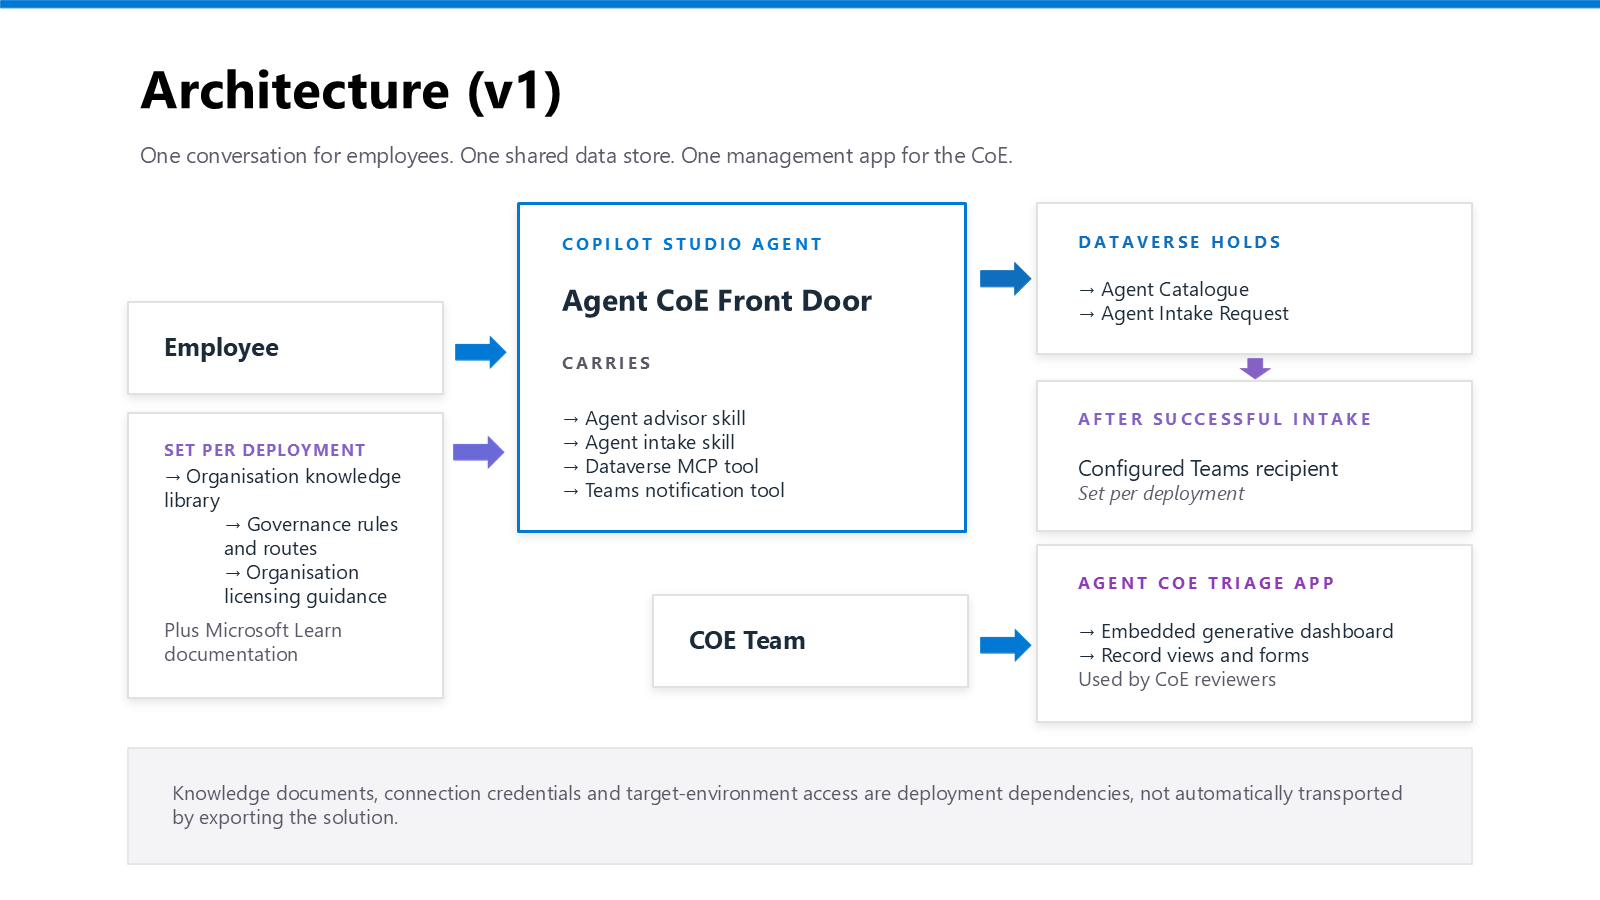
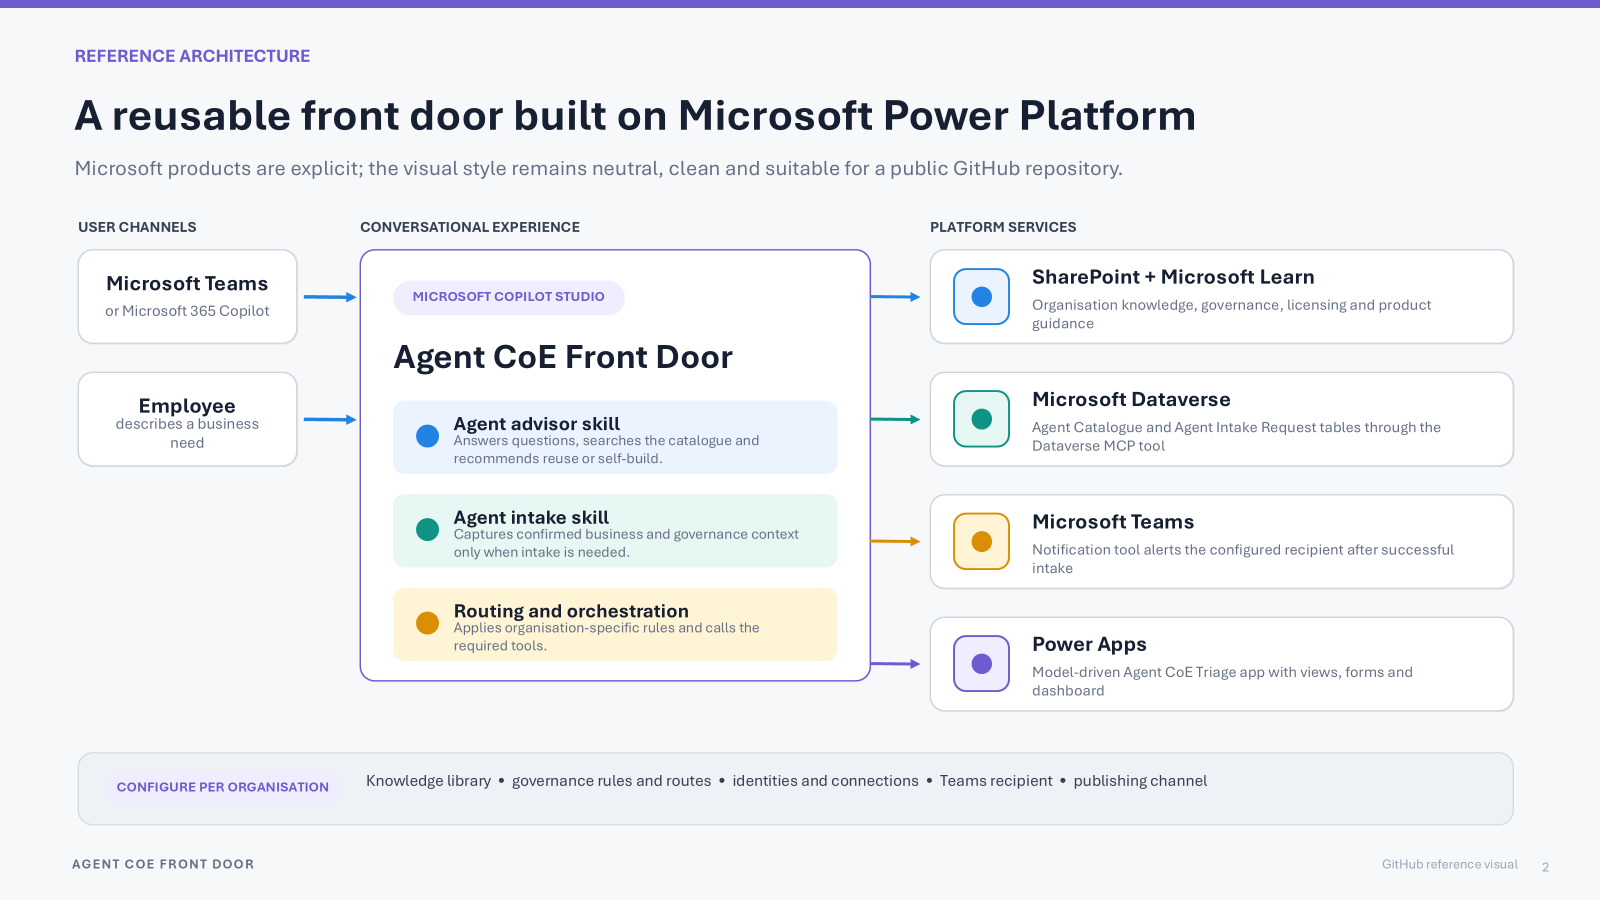
Refresh Front Door visuals and business scenarios

diff --git a/docs/USER-STORIES.md b/docs/USER-STORIES.md
@@ -2,6 +2,18 @@
 
 These user stories describe the reusable business scenarios that adopters should validate after importing and configuring the solution. Replace example policy, routing, and catalogue details with approved organizational content before using them for acceptance.
 
+The additional scenarios below are design and acceptance ideas, not claims that every behavior is implemented or has passed release validation.
+
+## Employee describing a need without choosing a tool
+
+As an employee, I want to explain the outcome I need in everyday language, so that I can receive a practical next step without knowing whether I need an agent, a template, or CoE help.
+
+Acceptance criteria to validate:
+
+- The response reflects the business outcome before recommending a route.
+- The agent asks only for information needed to make the next recommendation.
+- If the configured guidance cannot determine a route, the agent says so and points to an approved human contact.
+
 ## Employee looking for an existing agent
 
 As an employee with a business need, I want the front door to check the agent catalogue before asking me to submit a new request, so that I can reuse an existing solution when one is available.
@@ -12,6 +24,16 @@ Acceptance criteria:
 - A relevant existing agent is recommended when one is available.
 - A new intake is not created unless the user asks for further help or no suitable option exists.
 - Any catalogue gap is stated clearly rather than invented.
+
+## Employee comparing an existing option with a new request
+
+As an employee, I want to understand why an existing agent might meet my need before requesting another build, so that I can make an informed choice.
+
+Acceptance criteria to validate:
+
+- The agent explains the relevant match and any known limitations using catalogue information.
+- It does not imply that an unverified catalogue item is approved for my use.
+- If the existing option is unsuitable, it offers the configured next route without inventing a new record.
 
 ## Employee asking a policy or licensing question
 
@@ -34,6 +56,16 @@ Acceptance criteria:
 - The response explains when to come back for CoE review or support.
 - The self-build path is logged or made visible if the adopting organization requires demand visibility.
 
+## Maker finding an approved starting point
+
+As a maker, I want guidance toward an approved template or build approach and the checks needed before sharing, so that I can turn a suitable idea into a responsible self-build.
+
+Acceptance criteria to validate:
+
+- The recommendation uses configured, approved guidance rather than assuming a template exists.
+- Ownership, access, data handling, and review requirements are described where configured.
+- Scenarios outside the self-build rules are routed to review instead of being treated as approved.
+
 ## Business sponsor requesting CoE support
 
 As a business sponsor, I want to describe the business problem, users, timeline, and expected outcomes, so that the CoE receives enough structured information to triage the request.
@@ -44,6 +76,16 @@ Acceptance criteria:
 - The agent summarizes the request before writing.
 - The user must explicitly confirm before an intake record is created.
 - The created record contains the intended values and can be read back.
+
+## Sponsor correcting intake details
+
+As a sponsor, I want to amend or cancel the proposed request after reviewing its summary, so that inaccurate details are not submitted.
+
+Acceptance criteria to validate:
+
+- Corrections are reflected in a new summary before any write.
+- Cancelling the flow creates no intake record.
+- A record is created only after a clear confirmation of the final summary.
 
 ## CoE reviewer managing demand
 
@@ -56,6 +98,16 @@ Acceptance criteria:
 - Unauthorized users cannot access restricted records.
 - Status and ownership changes follow the adopting organization's process.
 
+## CoE reviewer distinguishing decision from delivery
+
+As a reviewer, I want to track the review outcome separately from delivery progress, so that a governance decision is not mistaken for a completed build.
+
+Acceptance criteria to validate:
+
+- The configured triage process defines what each status means.
+- Review and delivery changes are visible to authorized reviewers.
+- Reporting does not treat an approved idea as a delivered solution.
+
 ## Operations owner preparing production use
 
 As an operations owner, I want ownership, support, monitoring, knowledge review, access review, and connection renewal responsibilities assigned before launch, so that the front door has a sustainable operating model.
@@ -66,4 +118,3 @@ Acceptance criteria:
 - Capacity and support routes are defined.
 - Knowledge and access review dates are recorded.
 - Known limitations and rollback expectations are accepted before release.
-

diff --git a/docs/SOLUTION-OVERVIEW.md b/docs/SOLUTION-OVERVIEW.md
@@ -8,61 +8,17 @@ The design principle is **answer first, intake second**. The agent should avoid 
 
 ## Golden path
 
-```mermaid
-flowchart LR
-    A[Employee describes a need] --> B[Check catalogue and approved guidance]
-    B --> C{Can the need be resolved now?}
-    C -->|Existing agent or answer found| D[Reuse or answer directly]
-    C -->|Maker can self-serve| E[Provide self-build guidance and log visibility]
-    C -->|CoE support or review needed| F[Collect structured intake details]
-    F --> G[Show confirmation summary]
-    G --> H{User confirms?}
-    H -->|No| I[Revise or stop without writing]
-    H -->|Yes| J[Create intake request]
-    J --> K[Review and manage in triage app]
-```
+Describe the business need, discover approved guidance and existing solutions, decide on reuse, self-build, or CoE support, capture a confirmed request only when needed, and manage demand in the triage app. The user can revise or stop before confirmation without creating a record.
 
 ## Operating model
 
-```mermaid
-flowchart TB
-    L1[Self-service layer<br/>Find existing agents<br/>Answer licensing and governance questions<br/>Explain approved build paths]
-    L2[Guided routing layer<br/>Classify the need<br/>Apply routing rules<br/>Recommend reuse, self-build, or CoE support]
-    L3[Structured intake layer<br/>Capture business problem, sponsor, users, and timeline<br/>Confirm before writing<br/>Create request for triage]
-
-    L1 -->|Need not resolved| L2
-    L2 -->|Review or support required| L3
-```
-
-Each layer should run only when the previous layer cannot resolve the request. This keeps the front door lightweight for employees while still giving the CoE visibility into demand that needs review or delivery support.
+The agent starts with self-service answers and catalogue discovery, then applies organization-specific routing. Structured intake follows only when review, visibility, or delivery support is needed. This keeps the front door lightweight while giving the CoE visibility into demand.
 
 ## Package boundary
 
 ![Agent CoE Front Door architecture](../assets/architecture-visual.png)
 
-```mermaid
-flowchart LR
-    subgraph Package[Included in this release]
-        A[Front Door agent]
-        B[Advisor and intake skills]
-        C[Agent Catalogue table]
-        D[Agent Intake Request table]
-        E[Triage model-driven app]
-        F[Knowledge templates]
-        G[Dataverse MCP and Teams tool definitions]
-    end
-
-    subgraph Target[Configured by the adopting organization]
-        H[Approved knowledge content]
-        I[Connections and identities]
-        J[Security roles and access]
-        K[Teams destination]
-        L[Catalogue seed records]
-        M[Operational owners and review cadence]
-    end
-
-    Package --> Target
-```
+The release includes the Front Door agent, advisor and intake skills, Agent Catalogue and Agent Intake Request tables, a model-driven triage app, knowledge templates, and Dataverse MCP and Teams tool definitions. The adopting organization supplies approved knowledge, connections and identities, security roles, a Teams destination, catalogue records, and operational ownership.
 
 Knowledge files, credentials, permissions, connection identities, Teams recipients, catalogue records, and production operations do not automatically travel with the solution package. The adopting organization must configure, approve, and test those values in its own environment.
 

diff --git a/README.md b/README.md
@@ -10,25 +10,17 @@ It helps users:
 - confirm collected intake details before any Dataverse write; and
 - track catalogue and intake records in a model-driven triage app.
 
+## Business value
+
+The front door gives employees a single place to describe a business need without first choosing a technology or filling out a request form. Checking approved answers and the agent catalogue before intake can reduce duplicate builds and unnecessary CoE requests. Makers get an approved path to self-build when appropriate, while requests that need review arrive with clearer context and an explicit user confirmation. Catalogue and intake records give CoE reviewers a consistent view of demand.
+
+These are intended benefits of the pattern, not measured savings or a promise that a particular deployment will achieve them.
+
 ![Agent CoE Front Door golden path](assets/golden-path-visual.png)
 
 ## Golden path
 
-The core pattern is **answer first, intake second**. A request is created only when the organization needs visibility, review, or CoE-supported delivery.
-
-```mermaid
-flowchart LR
-    A[Employee describes a need] --> B[Check catalogue and approved guidance]
-    B --> C{Can the need be resolved now?}
-    C -->|Existing agent or answer found| D[Reuse or answer directly]
-    C -->|Maker can self-serve| E[Provide self-build guidance and log visibility]
-    C -->|CoE support or review needed| F[Collect structured intake details]
-    F --> G[Show confirmation summary]
-    G --> H{User confirms?}
-    H -->|No| I[Revise or stop without writing]
-    H -->|Yes| J[Create intake request]
-    J --> K[Review and manage in triage app]
-```
+The core pattern is **answer first, intake second**: describe the need, discover approved guidance and existing solutions, decide on a route, capture a confirmed request only when needed, and manage demand in the CoE app. The outcomes are reuse, guided self-build, or CoE-supported intake. A record is written only after the user confirms its details.
 
 ## Download
 
